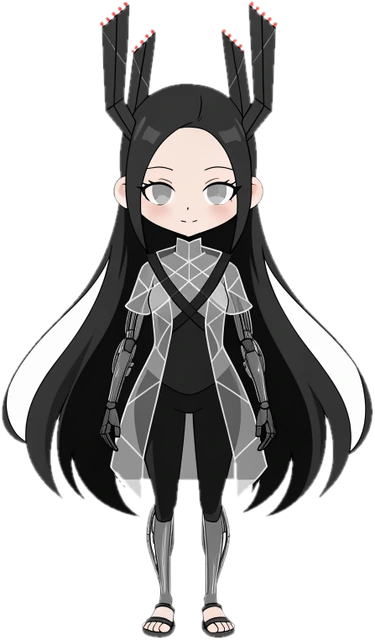
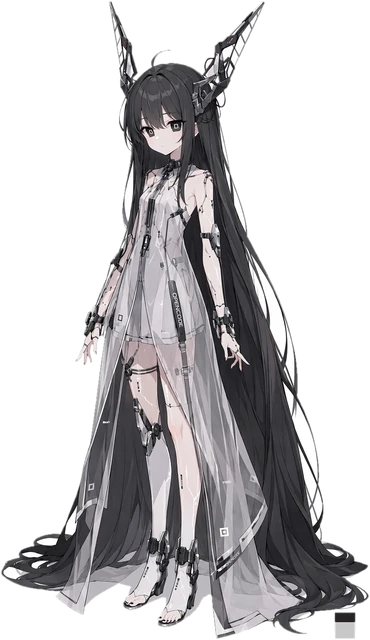
Match OpenCode pet to supplied character art

diff --git a/art/角色/opencode.md b/art/角色/opencode.md
@@ -6,14 +6,14 @@
 ## 角色锁定
 
 ```text
-CHARACTER LOCK — OpenCode, an elegant anime-girl personification of the OpenCode coding agent.
+CHARACTER LOCK — OpenCode, an elegant anime-girl personification of the OpenCode coding agent. Match the attached character reference's original anime rendering and proportions; do not redesign her as a chibi.
 Personality: quiet, observant, precise, and helpful; responds with calm focus and a small, warm smile when a task is done.
 Keep exactly:
-- Very long, straight, flowing black hair with soft charcoal highlights and pale silver-gray eyes.
+- Very long, straight, flowing black hair with soft charcoal highlights, delicate facial features, and pale silver-gray eyes.
 - Two tall, angular black wireframe antenna ornaments rising above her head like geometric crystal ears; tiny red status lights near the tips.
-- A modest layered translucent white and cool-gray technical tunic over a fitted black outfit, with clean black harness straps.
-- Sleek dark chrome cybernetic forearms and lower legs, articulated mechanical joints, and simple dark sandals.
-- Compact chibi proportions for desktop-pet sprites: about 2.5 heads tall, large head, small body, readable silhouette.
+- A modest layered translucent white and cool-gray technical gown over a fitted black outfit, with fine black harness straps and small technical details.
+- Sleek dark chrome cybernetic forearms and lower legs, articulated mechanical joints, and delicate dark sandals.
+- The same slender full-body proportions and restrained, high-detail anime linework as the reference. Keep the head and eyes natural in size; no super-deformed proportions.
 Palette: charcoal black, silver, cool white and gray, with only tiny red status-light accents.
 How she shows emotion: small changes in her eyes and mouth, a slight tilt of the antennae, and restrained hand gestures. Keep the calm, capable presence.
 ```
@@ -22,7 +22,7 @@ How she shows emotion: small changes in her eyes and mouth, a slight tilt of the
 
 每行「- 姿态: 动作」。没写的姿态用 art/姿态/ 里的默认动作。
 
-- idle: Standing calmly and facing the viewer, arms relaxed at her sides; neutral attentive expression, antenna lights softly glowing red.
+- idle: Standing calmly and facing the viewer, arms relaxed at her sides; neutral attentive expression, antenna lights softly glowing red. Match the attached idle reference exactly.
 - thinking: One hand near her chin, silver eyes glancing slightly upward, antennae tilted inward in concentration.
 - writing: Focused on a small floating code panel, one cybernetic hand making a precise typing gesture.
 - running: A small determined fist raised at chest level, focused expression, antenna lights brightening.
